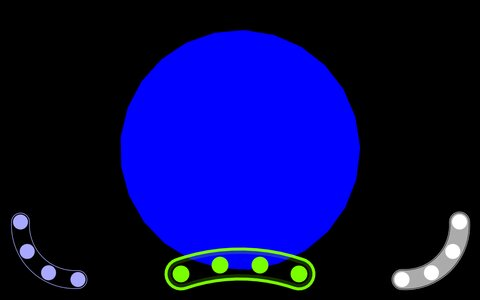
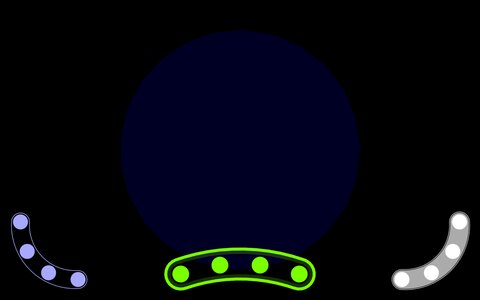
experimenting-shapes: default center circle color #000020 and recaptured thumbnail
Claude-Session: https://claude.ai/code/session_01DeeM7ghEuWChYicPgEnwJ5

diff --git a/experimenting-shapes/defaults.js b/experimenting-shapes/defaults.js
@@ -7,7 +7,7 @@ export const INITIAL_PARAMS = {
 export const INITIAL_CIRCLES = [
   {
     radius: 400,
-    color: "#0000ffff",
+    color: "#000020ff",
     textColor: "#ffffffff",
     anchorX: "center",
     anchorY: "center",
